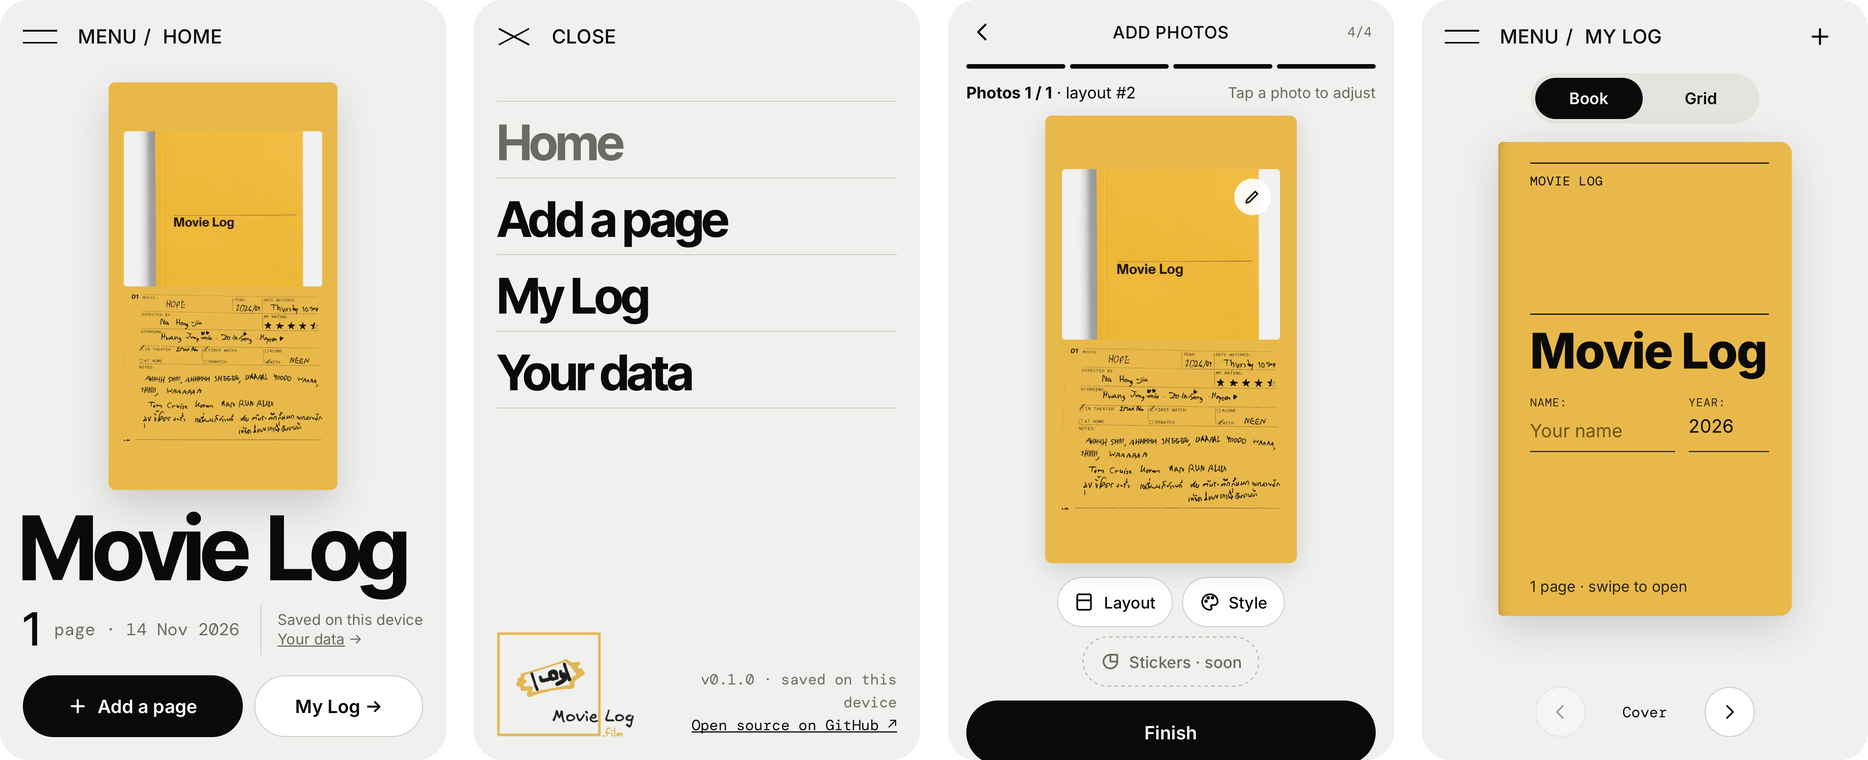
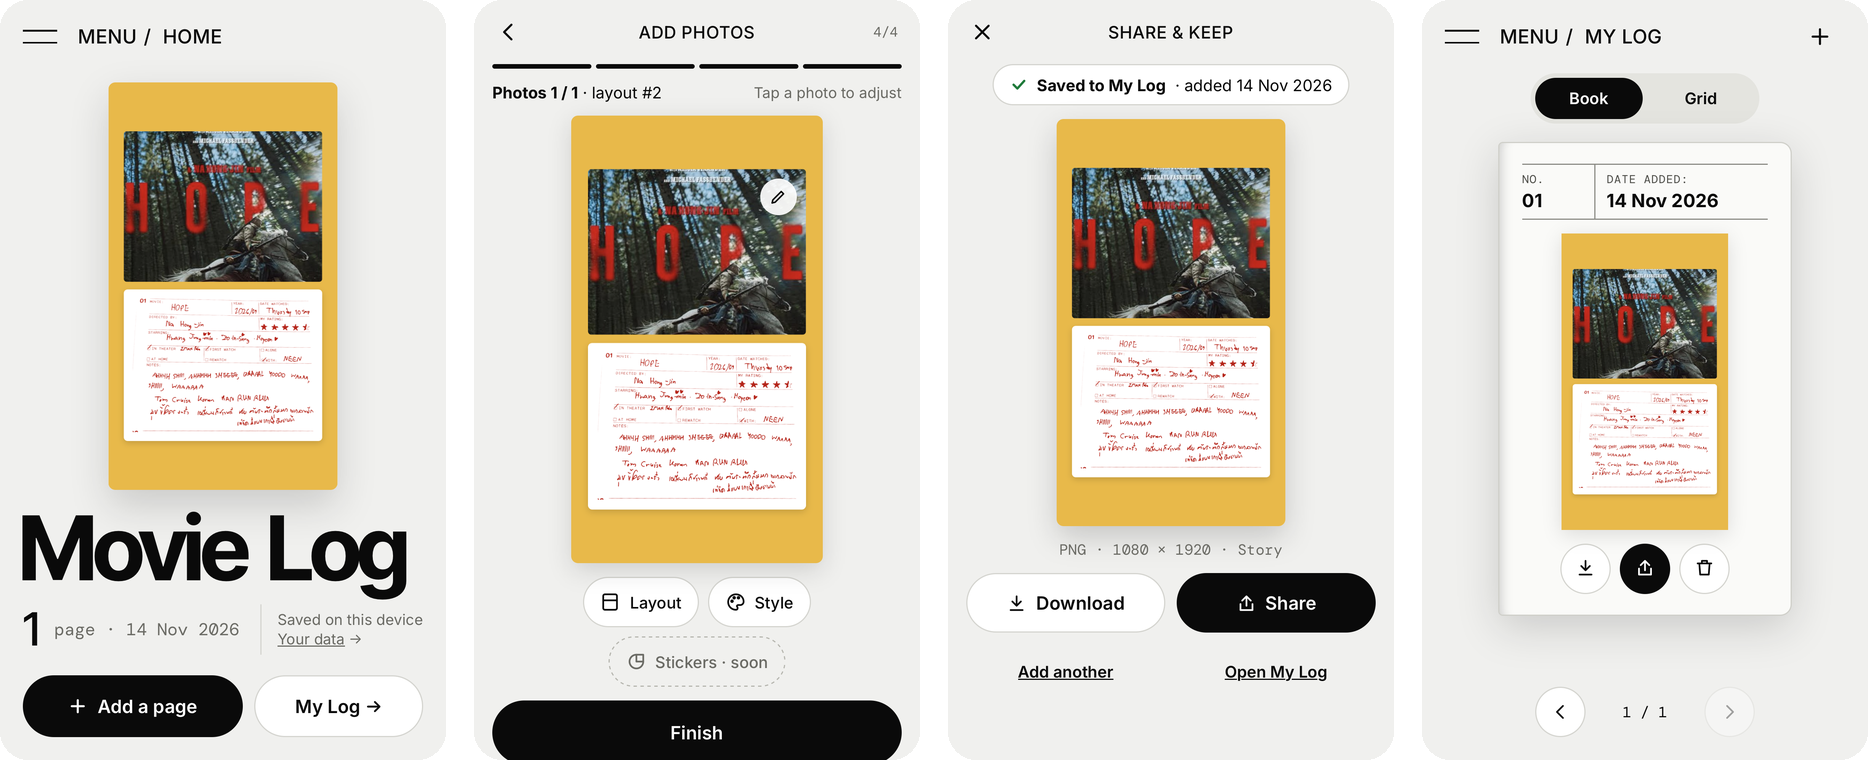
docs: add versions, changelog and HOPE example to README
White card behind the logo so it reads on GitHub's dark theme, new
screenshots made with a page about HOPE, a finished example Story,
version badges, a versions table and release steps, and CHANGELOG.md.

diff --git a/README.md b/README.md
@@ -1,5 +1,11 @@
 <p align="center">
-  <img src="docs/images/logo.png" alt="Movie Log .film" width="280" />
+  <img src="docs/images/logo.png" alt="Movie Log .film" width="300" />
+</p>
+
+<p align="center">
+  <a href="CHANGELOG.md"><img src="https://img.shields.io/badge/version-0.1.0-E8B94A" alt="Version 0.1.0" /></a>
+  <a href="LICENSE"><img src="https://img.shields.io/badge/license-MIT-0A0A0A" alt="MIT license" /></a>
+  <img src="https://img.shields.io/badge/SvelteKit-3-0A0A0A" alt="SvelteKit 3" />
 </p>
 
 <p align="center">
@@ -8,7 +14,7 @@
 </p>
 
 <p align="center">
-  <img src="docs/images/screens.png" alt="Home, menu, editor and My Log on a phone" width="100%" />
+  <img src="docs/images/screens.png" alt="Home, editor, Share and keep, and My Log on a phone, made with a page about the film HOPE" width="100%" />
 </p>
 
 ---
@@ -30,6 +36,20 @@ It works like [Excalidraw](https://excalidraw.com/): open the site and start, wi
 3. **Choose a layout**: four Story layouts that size themselves to your review.
 4. **Style and photos**: pick a card style and text colour, add your own photos, move and zoom them.
 5. **Share and keep**: get a 1080 × 1920 PNG to share or download. It also flies into **My Log**.
+
+## Example
+
+<table>
+  <tr>
+    <td width="300"><img src="docs/images/example-hope.jpg" alt="A finished Story: the HOPE poster above a handwritten review on a white card, on yellow" width="280" /></td>
+    <td>
+      A page about <b>HOPE</b> (Na Hong-jin), made with:<br /><br />
+      Layout <b>#2 Photo on top</b><br />
+      Card style <b>Paper</b> with <b>red</b> text<br />
+      Output: <code>1080 × 1920</code> PNG, ready for an Instagram Story
+    </td>
+  </tr>
+</table>
 
 ## Card styles
 
@@ -94,12 +114,22 @@ src/lib/files.ts       share, download, backup, save to folder
 src/routes/            Home, Add, My Log, Your data
 ```
 
-## Roadmap
+## Versions
 
-- [ ] Stickers on the Story
-- [ ] Two-way sync with a local folder
-- [ ] Better box detection for tricky photos (OpenCV.js)
-- [ ] Hosted version on Vercel
+Versions follow [Semantic Versioning](https://semver.org/) (`MAJOR.MINOR.PATCH`). Every change is listed in [CHANGELOG.md](CHANGELOG.md).
+
+| Version | Date | Status | Highlights |
+|---|---|---|---|
+| **0.1.0** | 2026-11-14 | Current | First playable web app: capture, detect, ink only, 4 layouts, 6 card styles, My Log, backup, brand |
+| 0.2.0 | – | Planned | Stickers on the Story |
+| 0.3.0 | – | Planned | Two-way sync with a local folder, better detection for tricky photos (OpenCV.js) |
+| 1.0.0 | – | Planned | Hosted version on Vercel, stable `.movielog` file format |
+
+### Releasing a new version
+
+1. Move the items under **Unreleased** in `CHANGELOG.md` to a new version heading with today's date.
+2. Update `version` in `package.json` (the app reads its version from there).
+3. Commit, then tag it: `git tag -a v0.2.0 -m "v0.2.0"` and `git push origin main --tags`.
 
 ## License
 

diff --git a/CHANGELOG.md b/CHANGELOG.md
@@ -1,0 +1,31 @@
+# Changelog
+
+All notable changes to Movie Log .film are listed here.
+
+The format follows [Keep a Changelog](https://keepachangelog.com/en/1.1.0/), and versions follow [Semantic Versioning](https://semver.org/):
+
+- **MAJOR** (`1.0.0`): changes that break saved data or backups
+- **MINOR** (`0.2.0`): new features
+- **PATCH** (`0.1.1`): fixes and small tweaks
+
+## [Unreleased]
+
+## [0.1.0] - 2026-11-14
+
+First playable version of the web app.
+
+### Added
+
+- **Capture**: take or upload a photo of a log page, or try the included sample page
+- **Detect**: straightens a tilted photo and finds the review boxes from the printed lines; corners can be dragged
+- **Ink only**: removes the paper so only the handwriting and printed lines remain, on a transparent background
+- **Layouts**: four 1080 × 1920 Story layouts that size themselves to the review and keep clear of Instagram's top and bottom bars
+- **Card styles**: Clear, Paper, Gray, Space, Film and Ticket, with any text colour or the real pen colour
+- **Photos**: add photos to each slot, then move and zoom them (drag, pinch, scroll)
+- **Share and keep**: PNG export, share sheet on phones, and a "send to My Log" animation
+- **My Log**: book view with an editable cover, flip by swipe, arrows or keys, two-page spread on wide screens, and a grid view
+- **Your data**: storage usage, `.movielog` backup export and import, save every page to a folder (Chrome / Edge on desktop), delete all
+- **Brand**: hand-drawn ticket logo, favicon and iPhone icon; gray page with Inter Tight headlines, DM Mono details and a `MENU / PAGE` header with a full-screen menu
+
+[Unreleased]: https://github.com/Jamamaboy/movielog.film/compare/v0.1.0...HEAD
+[0.1.0]: https://github.com/Jamamaboy/movielog.film/commits/v0.1.0
